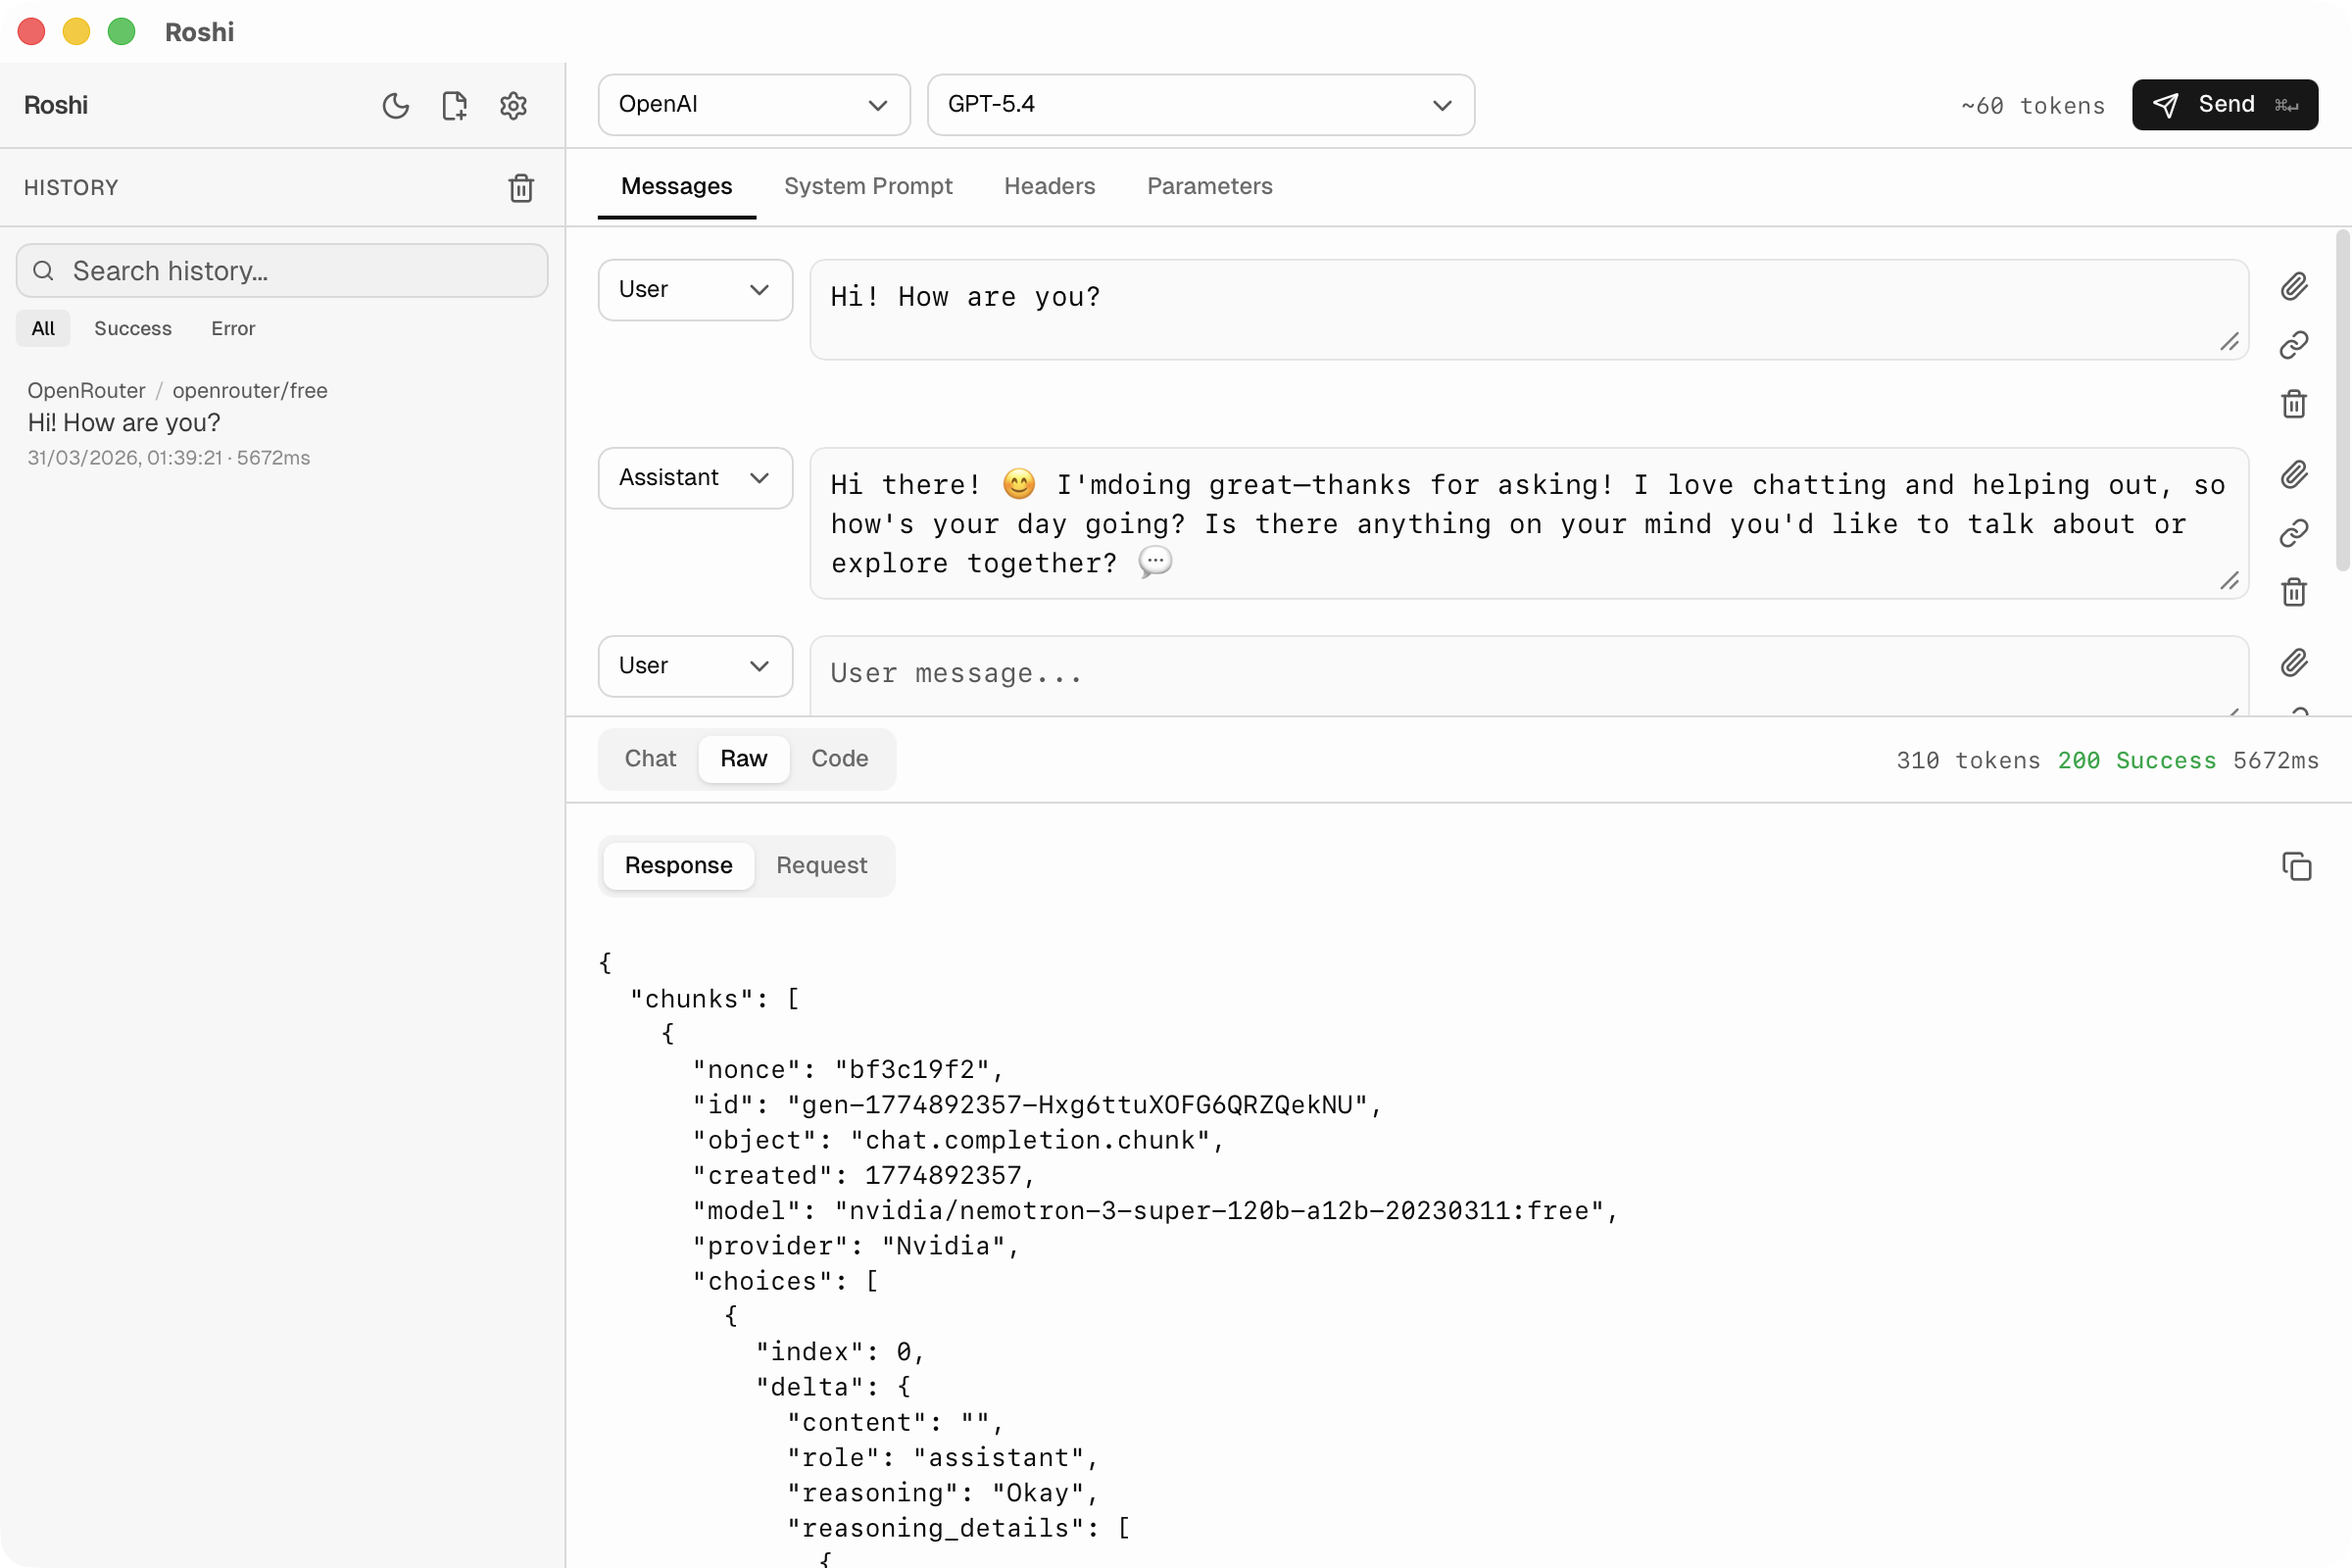
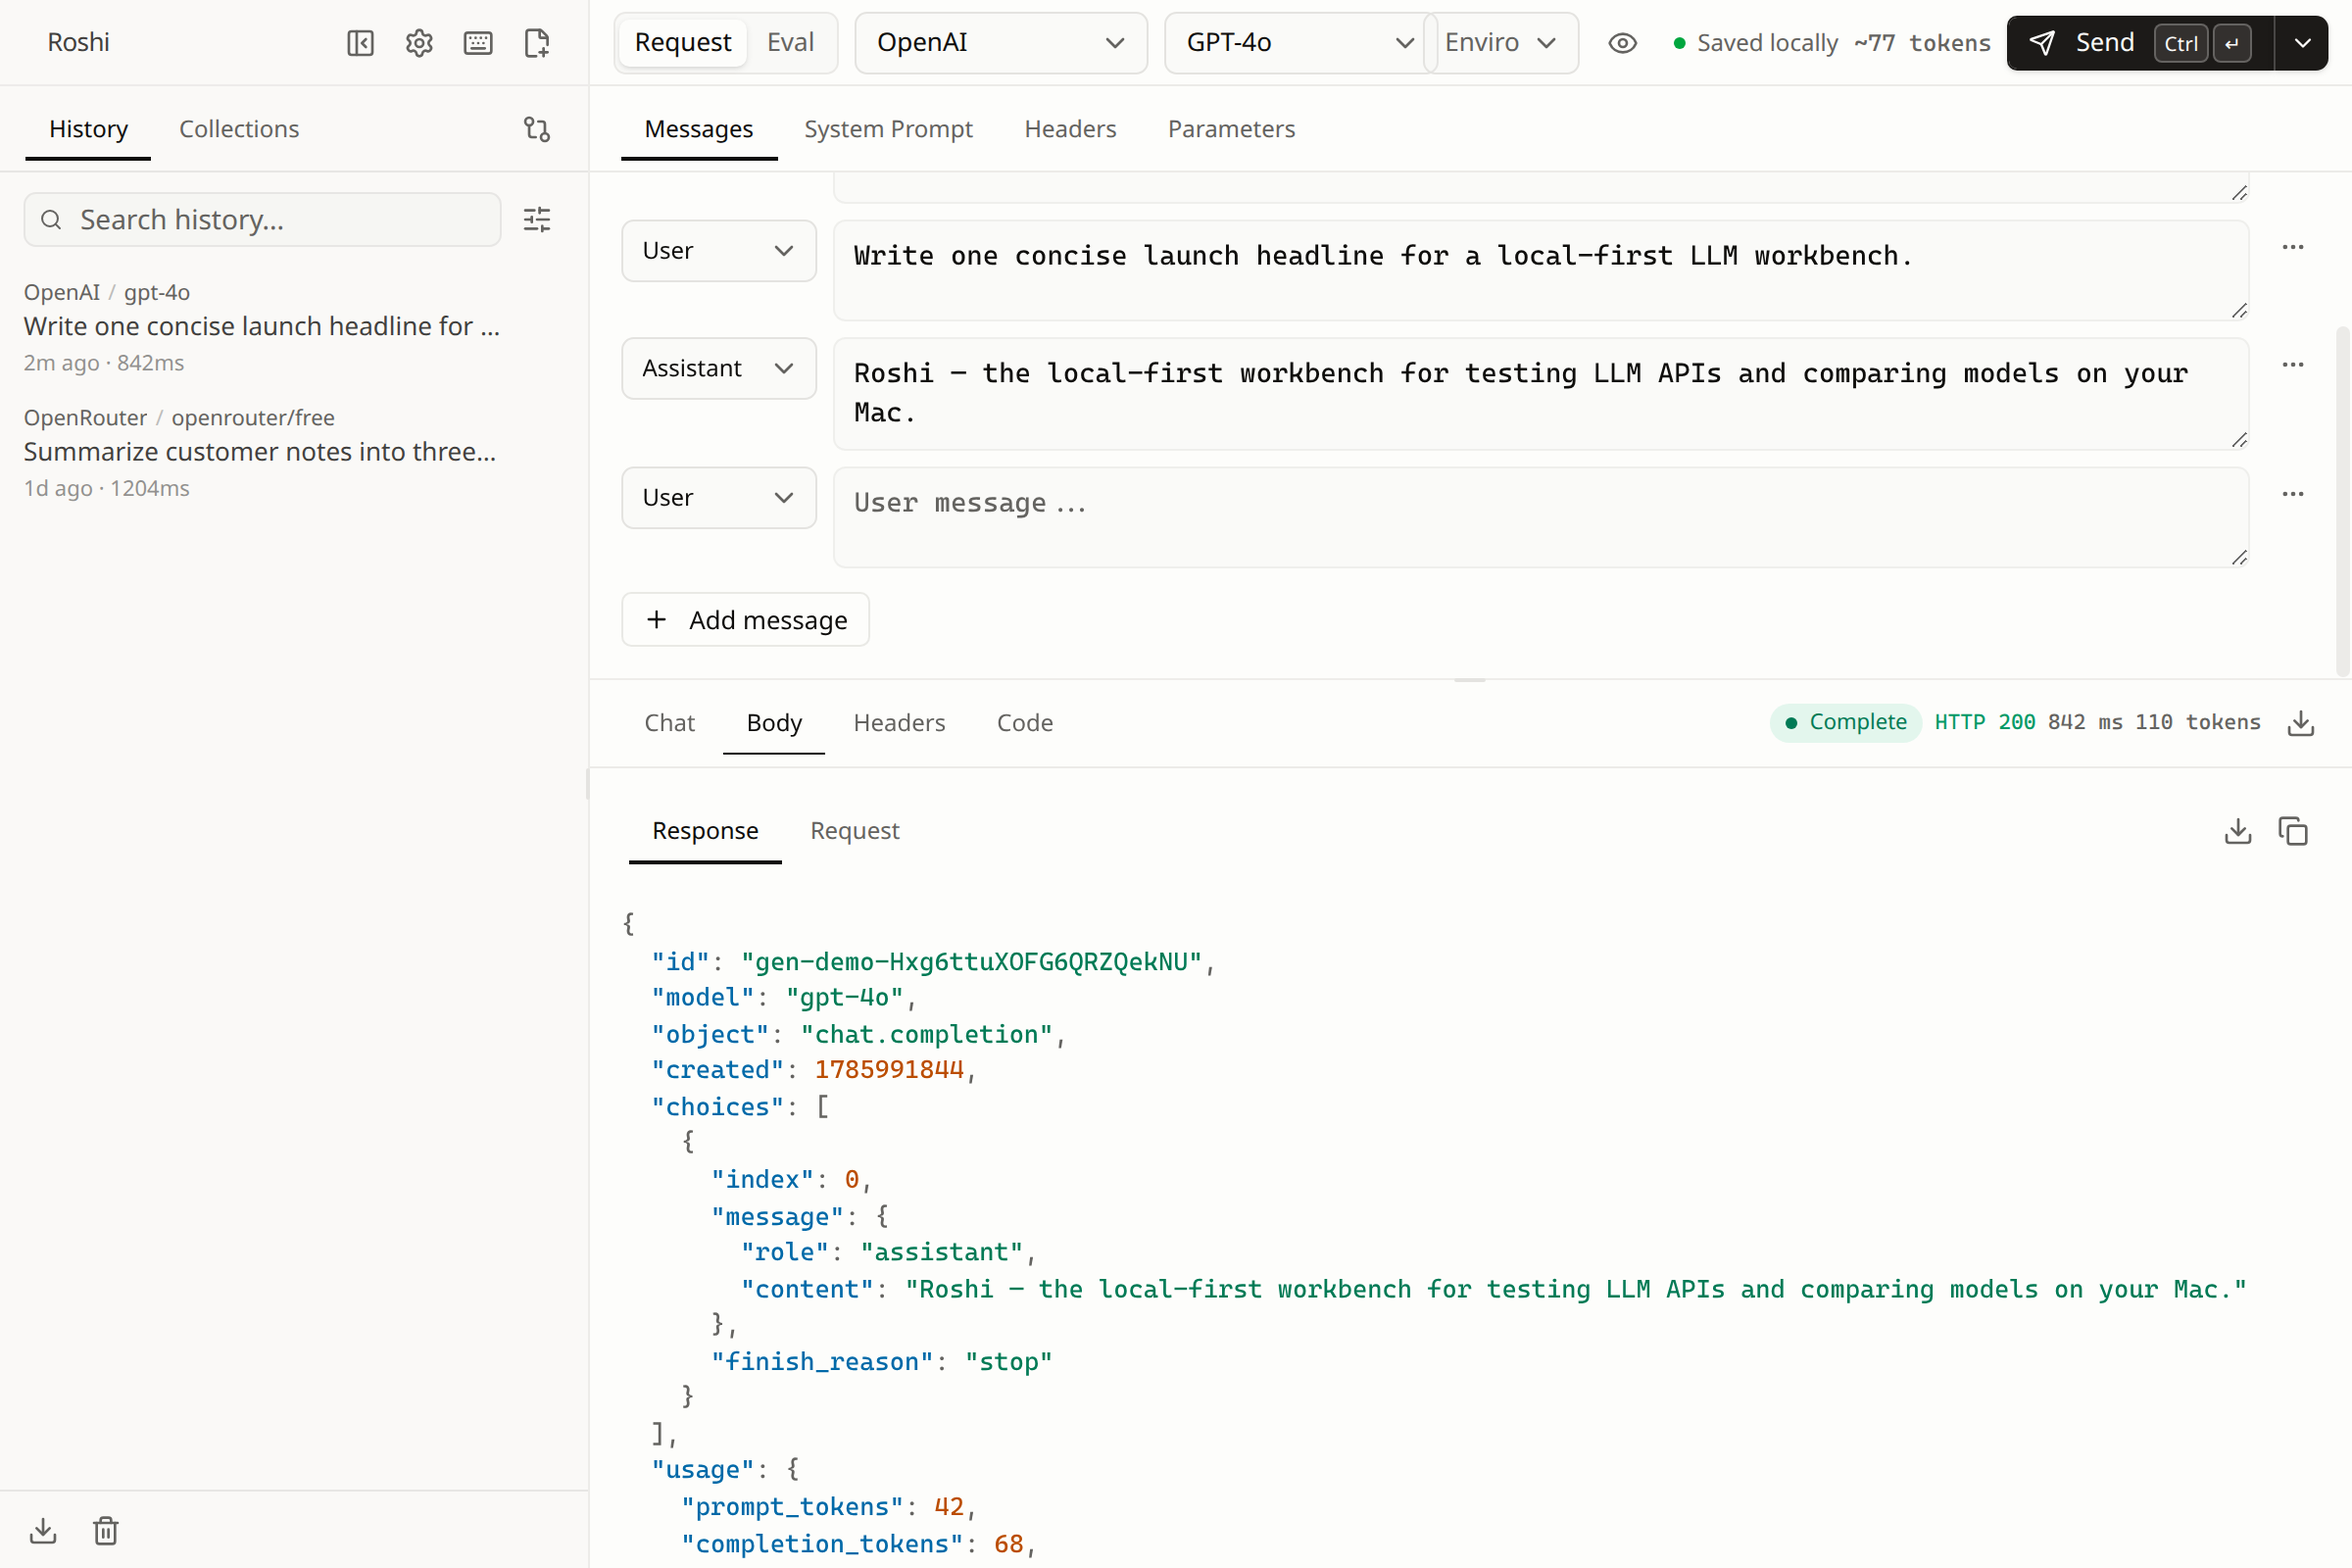
docs: clarify Roshi overview and refresh screenshots
Amp-Thread-ID: https://ampcode.com/threads/T-019fe20b-002a-725a-8b07-c3a56a6b9fd6

diff --git a/README.md b/README.md
@@ -5,11 +5,11 @@
 <h1 align="center">Roshi</h1>
 
 <p align="center">
-  <strong>MIT-licensed, local-first API workbench for LLM developers.</strong>
+  <strong>A local-first macOS API client and model evaluation workbench for LLM developers.</strong>
 </p>
 
 <p align="center">
-  Test OpenAI, Anthropic, OpenRouter, Google Gemini, and custom OpenAI-compatible endpoints with real-time streaming, local history, image inputs, and raw payload inspection.
+  Compose chat requests, inspect complete responses, compare models side by side, and score their output with an LLM judge.
 </p>
 
 <p align="center">
@@ -24,11 +24,21 @@
   </a>
 </p>
 
-Roshi is a local-first workspace for testing and debugging LLM APIs. Send prompts, inspect streaming responses, tune model settings, test image inputs, switch between providers, compare models in Eval mode, and review raw request and response payloads from one focused interface.
+## What is Roshi?
 
-No backend. No account. No telemetry. Your API keys, settings, and request history stay on your machine.
+Roshi is a desktop app for developers who build with LLM APIs. If you use Postman or a similar tool for ordinary REST APIs, Roshi is the specialized client for the model layer: it understands multi-turn messages, streaming output, model parameters, token usage, provider-specific payloads, and model comparisons.
 
-Whether you are debugging prompts, testing custom endpoints, or comparing model behavior, Roshi gives you a dedicated workspace for multi-turn conversations, provider-specific settings, and fast iteration without bending a generic API client into shape.
+Use it to test OpenAI, Anthropic, Google Gemini, OpenRouter, and compatible endpoints without writing a throwaway script for every experiment. Build a request once, inspect exactly what was sent and returned, then run the same prompt across several models and compare quality, latency, token usage, and cost.
+
+Roshi is client-only: there is **no Roshi backend, account, or telemetry**. The desktop app calls providers directly, while your API keys, settings, history, collections, and eval results stay on your Mac.
+
+<p align="center">
+  <a href="https://roshi.mmc.dev"><strong>Website</strong></a>
+  &nbsp;&nbsp;·&nbsp;&nbsp;
+  <a href="https://github.com/andrewmmc/roshi/releases/latest"><strong>Free download</strong></a>
+  &nbsp;&nbsp;·&nbsp;&nbsp;
+  <a href="https://apps.apple.com/us/app/roshi-llm-api-workbench/id6761768847"><strong>Mac App Store</strong></a>
+</p>
 
 ## Why Roshi
 
@@ -38,36 +48,67 @@ Whether you are debugging prompts, testing custom endpoints, or comparing model 
 - **Debuggable and reproducible** — inspect raw payloads, save local history with diffing, and generate Python and Node.js snippets for supported OpenAI-compatible requests
 - **Compare models side by side** — Eval mode runs the same prompt across multiple providers/models at once, with LLM-as-judge scoring and CSV/JSON export
 
+## How it works
+
+1. **Add a provider** — start from an OpenAI, Anthropic, Gemini, or OpenRouter template, or configure a compatible endpoint.
+2. **Compose and debug** — edit messages, images, model parameters, and headers while inspecting streamed text, raw bodies, timing, and token usage.
+3. **Compare models** — send the same frozen request to several provider/model pairs and review their output and metrics together.
+4. **Evaluate and reuse** — rate responses yourself or apply an LLM judge with your rubric, then save the run, export the results, or generate code.
+
 ## Screenshots
 
-Real views from the actual app, so you can quickly see how Roshi feels before you download it.
+These are current views from the shipping app.
 
 <p align="center">
-  <img src="./assets/screenshot-1.png" alt="Roshi composer view" width="92%" />
+  <img src="./assets/screenshot-1.png" alt="Roshi composer showing a multi-turn OpenAI request and its raw JSON response" width="92%" />
 </p>
 <p align="center">
-  <strong>Compose and iterate fast</strong><br />
-  Build multi-turn requests, tune model parameters, and attach images in one focused workspace.
+  <strong>Compose, send, and inspect in one workspace</strong><br />
+  Build multi-turn requests, tune parameters and headers, stream the answer, and inspect the complete request or response body.
 </p>
 
 <table>
   <tr>
     <td width="50%" valign="top">
-      <img src="./assets/screenshot-2.png" alt="Roshi response inspection view" />
+      <img src="./assets/screenshot-2.png" alt="Roshi provider settings listing OpenAI, Anthropic, Google Gemini, and OpenRouter" />
       <p>
-        <strong>Inspect responses deeply</strong><br />
-        Review streamed output, raw payloads, and generated code while iterating on requests.
+        <strong>Bring your existing providers</strong><br />
+        Start with templates for OpenAI, Anthropic, Google Gemini, and OpenRouter, then choose the models you want available.
       </p>
     </td>
     <td width="50%" valign="top">
-      <img src="./assets/screenshot-3.png" alt="Roshi provider and history view" />
+      <img src="./assets/screenshot-3.png" alt="Roshi provider editor showing API key, base URL, protocol, authentication, and custom headers" />
       <p>
-        <strong>Organize providers and history</strong><br />
-        Manage models, headers, provider setups, and local request history from one place.
+        <strong>Configure compatible endpoints</strong><br />
+        Control the base URL, protocol, authentication, custom headers, and model list. Credentials are stored locally.
+      </p>
+    </td>
+  </tr>
+  <tr>
+    <td width="50%" valign="top">
+      <img src="./assets/screenshot-4.png" alt="Roshi Eval results comparing OpenAI, Anthropic, and Google Gemini outputs and metrics" />
+      <p>
+        <strong>Run one prompt across several models</strong><br />
+        Compare output, latency, time to first token, throughput, token counts, estimated cost, ratings, and judge scores.
+      </p>
+    </td>
+    <td width="50%" valign="top">
+      <img src="./assets/screenshot-5.png" alt="Roshi Eval comparison showing a word-level diff and metrics for two model responses" />
+      <p>
+        <strong>Inspect differences, not just answers</strong><br />
+        Select two results for a word-level diff and a direct comparison of performance and usage metrics.
       </p>
     </td>
   </tr>
 </table>
+
+<p align="center">
+  <img src="./assets/screenshot-6.png" alt="Roshi LLM-as-judge settings with a selected judge model, custom rubric, and scored Eval results" width="92%" />
+</p>
+<p align="center">
+  <strong>Apply your own evaluation rubric</strong><br />
+  Choose a separate judge model to score candidates for qualities such as helpfulness, accuracy, and clarity, and select a winner.
+</p>
 
 ## Download
 
